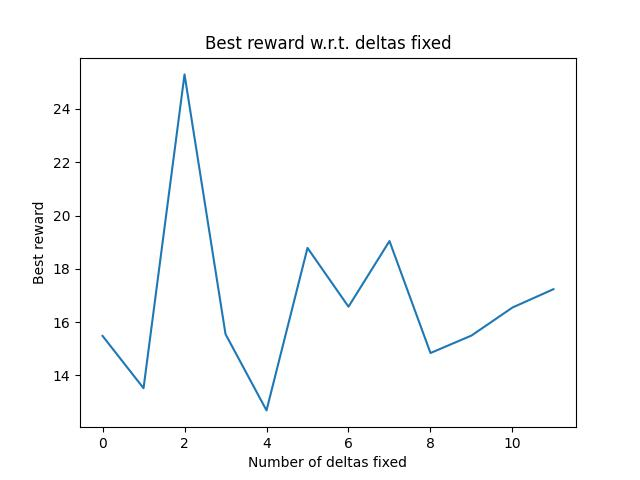
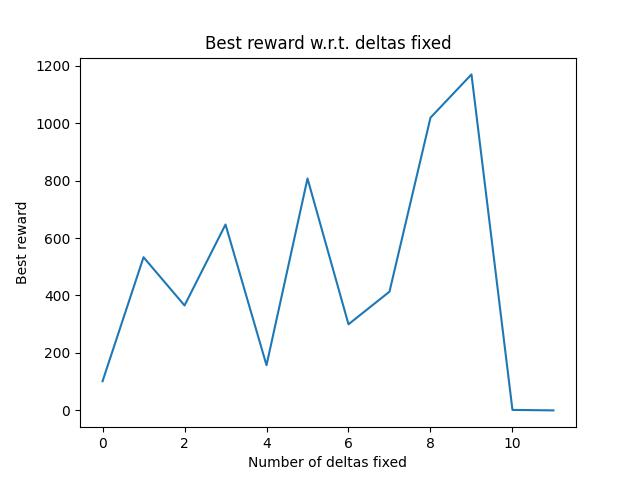
Improved cluster stability and other small changes

diff --git a/pro_run_cluster.py b/pro_run_cluster.py
@@ -28,11 +28,11 @@ guessings = np.array([[1, 1, 1, 1, 1, 1, 1, 1, 1, 1, 1],
 
 guess_sizes = np.array([[10.5, 10.5, 8.5, 8.5, 8.5, 6.5, 6.5, 4.5, 4.5, 2.5, 0.5],
                         [10.5, 10.5, 0, 8.5, 8.5, 6.5, 6.5, 4.5, 4.5, 2.5, 0.5],
-                        [0, 10.5, 0, 8.5, 8.5, 6.5, 6.5, 4.5, 4.5, 2.5, 0.5],
-                        [0, 10.5, 0, 8.5, 8.5, 0, 6.5, 4.5, 4.5, 2.5, 0.5],
-                        [0, 10.5, 0, 0, 8.5, 0, 6.5, 4.5, 4.5, 2.5, 0.5],
-                        [0, 10.5, 0, 0, 8.5, 0, 6.5, 0, 4.5, 2.5, 0.5],
-                        [0, 0, 0, 0, 8.5, 0, 6.5, 0, 4.5, 2.5, 0.5],
+                        [0, 6.5, 0, 8.5, 8.5, 6.5, 6.5, 4.5, 4.5, 2.5, 0.5],
+                        [0, 6.5, 0, 8.5, 8.5, 0, 6.5, 4.5, 4.5, 2.5, 0.5],
+                        [0, 6.5, 0, 0, 4.5, 0, 6.5, 4.5, 4.5, 2.5, 0.5],
+                        [0, 6.5, 0, 0, 4.5, 0, 6.5, 0, 4.5, 2.5, 0.5],
+                        [0, 0, 0, 0, 4.5, 0, 6.5, 0, 4.5, 2.5, 0.5],
                         [0, 0, 0, 0, 0, 0, 6.5, 0, 4.5, 2.5, 0.5],
                         [0, 0, 0, 0, 0, 0, 6.5, 0, 4.5, 0, 0.5],
                         [0, 0, 0, 0, 0, 0, 0, 0, 4.5, 0, 0.5],
@@ -41,13 +41,13 @@ guess_sizes = np.array([[10.5, 10.5, 8.5, 8.5, 8.5, 6.5, 6.5, 4.5, 4.5, 2.5, 0.5
 
 starts = np.array([[0., 0., 2., 2., 2., 4., 4., 6., 6., 8., 10.],
                    [0., 0., 2., 2., 2., 4., 4., 6., 6., 8., 10.],
-                   [4., 0., 2., 2., 2., 4., 4., 6., 6., 8., 10.],
-                   [4., 0., 2., 2., 2., 4., 4., 6., 6., 8., 10.],
-                   [4., 0., 2., 6., 2., 4., 4., 6., 6., 8., 10.],
-                   [4., 0., 2., 6., 2., 4., 4., 6., 6., 8., 10.],
-                   [4., 8., 2., 6., 2., 4., 4., 6., 6., 8., 10.],
-                   [4., 8., 2., 6., 2., 4., 8., 6., 6., 8., 10.],
-                   [4., 8., 2., 6., 2., 4., 8., 6., 6., 8., 10.],
+                   [4., 4., 2., 2., 2., 4., 4., 6., 6., 8., 10.],
+                   [4., 4., 2., 2., 2., 4., 4., 6., 6., 8., 10.],
+                   [4., 4., 2., 6., 6., 4., 4., 6., 6., 8., 10.],
+                   [4., 4., 2., 6., 6., 4., 4., 6., 6., 8., 10.],
+                   [4., 8., 2., 6., 6., 4., 4., 6., 6., 8., 10.],
+                   [4., 8., 2., 6., 6., 4., 8., 6., 6., 8., 10.],
+                   [4., 8., 2., 6., 6., 4., 8., 6., 6., 8., 10.],
                    [4., 8., 2., 6., 10., 4., 8., 6., 6., 8., 10.],
                    [4., 8., 2., 6., 10., 4., 8., 6., 10., 8., 10.],
                    [4., 8., 2., 6., 10., 4., 8., 6., 10., 8., 10.]
@@ -56,12 +56,12 @@ starts = np.array([[0., 0., 2., 2., 2., 4., 4., 6., 6., 8., 10.],
 if __name__ == '__main__':
     parser = argparse.ArgumentParser()
 
-    parser.add_argument('--faff_max', type=int, default=1000, help='Maximum number of steps without improving')
-    parser.add_argument('--pc_max', type=int, default=100, help='Maximum number of reinitializations before reducing window')
-    parser.add_argument('--window_rate', type=float, default=1., help='Rate of search window reduction')
+    parser.add_argument('--faff_max', type=int, default=10000, help='Maximum number of steps without improving')
+    parser.add_argument('--pc_max', type=int, default=10, help='Maximum number of reinitializations before reducing window')
+    parser.add_argument('--window_rate', type=float, default=0.7, help='Rate of search window reduction')
     parser.add_argument('--max_window_exp', type=int, default=25, help='Maximun number of window reductions')
     parser.add_argument('--same_spin_hierarchy', type=bool, default=True, help='Whether same spin deltas should be ordered')
-    parser.add_argument('--dyn_shift', type=float, default=0.7, help='Minimum distance between same spin deltas')
+    parser.add_argument('--dyn_shift', type=float, default=0., help='Minimum distance between same spin deltas')
     parser.add_argument('--alpha', type=float, default=0.0005, help='Learning rate for actor network')
     parser.add_argument('--beta', type=float, default=0.0005, help='Learning rate for critic and value network')
     parser.add_argument('--reward_scale', type=float, default=0.001, help='The reward scale, also related to the entropy parameter')
@@ -71,9 +71,9 @@ if __name__ == '__main__':
     parser.add_argument('--layer2_size', type=int, default=256, help='Dense units for the second layer')
     parser.add_argument('--batch_size', type=int, default=128, help='Batch size')
     parser.add_argument('--num_runs', type=int, default=1, help='Number of runs')
-    parser.add_argument('--max_cpus', type=int, default=400, help='Maximum number of CPUs')
+    parser.add_argument('--max_cpus', type=int, default=650, help='Maximum number of CPUs')
     parser.add_argument('--cpus_per_job', type=int, default=1, help='Maximum number of CPUs per job')
-    parser.add_argument('--runs_per_args', type=int, default=25, help='Number of runs for each combination of parameters')
+    parser.add_argument('--runs_per_args', type=int, default=50, help='Number of runs for each combination of parameters')
     
     args = parser.parse_args()
     
@@ -118,7 +118,8 @@ if __name__ == '__main__':
                       agent_config=agent_config,
                       verbose=verbose,
                       best_teor=best_teor)
-
+    
+    blocks = utils.generate_Ising2D_block_list(10, [])
     remaining_ids = []
     for i in range(12):
         run_config = {}
@@ -166,9 +167,9 @@ if __name__ == '__main__':
             #blocks = utils.generate_block_list(max(params.spin_list), params.z_kill_list)
 
             # ---Instantiate the crossing_eqn class---
-            cft = Ising2D_SAC(params, zd)
+            cft = Ising2D_SAC(blocks, params, zd)
 
-            teor_reward = cft.best_theoretical_reward
+            teor_reward = cft.best_theoretical()
             # array_index is the cluster array number passed to the console. Set it to zero if it doesn't exist.
             array_index = 100*i+j
 
@@ -200,7 +201,7 @@ if __name__ == '__main__':
                         verbose=params.verbose,
                         best_teor=teor_reward))
             
-            #time.sleep(0.5)
+            time.sleep(1)
         
     n_jobs = len(remaining_ids)
     print(f"Total jobs: {n_jobs}")

diff --git a/run_cluster.py b/run_cluster.py
@@ -15,9 +15,9 @@ import time
 if __name__ == '__main__':
     parser = argparse.ArgumentParser()
 
-    parser.add_argument('--faff_max', type=int, default=1000, help='Maximum number of steps without improving')
-    parser.add_argument('--pc_max', type=int, default=100, help='Maximum number of reinitializations before reducing window')
-    parser.add_argument('--window_rate', type=float, default=1., help='Rate of search window reduction')
+    parser.add_argument('--faff_max', type=int, default=10000, help='Maximum number of steps without improving')
+    parser.add_argument('--pc_max', type=int, default=10, help='Maximum number of reinitializations before reducing window')
+    parser.add_argument('--window_rate', type=float, default=0.7, help='Rate of search window reduction')
     parser.add_argument('--max_window_exp', type=int, default=25, help='Maximun number of window reductions')
     parser.add_argument('--same_spin_hierarchy', type=bool, default=True, help='Whether same spin deltas should be ordered')
     parser.add_argument('--dyn_shift', type=float, default=0.7, help='Minimum distance between same spin deltas')
@@ -30,9 +30,9 @@ if __name__ == '__main__':
     parser.add_argument('--layer2_size', type=int, default=256, help='Dense units for the second layer')
     parser.add_argument('--batch_size', type=int, default=128, help='Batch size')
     parser.add_argument('--num_runs', type=int, default=1, help='Number of runs')
-    parser.add_argument('--max_cpus', type=int, default=400, help='Maximum number of CPUs')
+    parser.add_argument('--max_cpus', type=int, default=650, help='Maximum number of CPUs')
     parser.add_argument('--cpus_per_job', type=int, default=1, help='Maximum number of CPUs per job')
-    parser.add_argument('--runs_per_args', type=int, default=250, help='Number of runs for each combination of parameters')
+    parser.add_argument('--runs_per_args', type=int, default=450, help='Number of runs for each combination of parameters')
     
     args = parser.parse_args()
     
@@ -77,7 +77,8 @@ if __name__ == '__main__':
                       agent_config=agent_config,
                       verbose=verbose,
                       best_teor=best_teor)
-
+    
+    blocks = utils.generate_Ising2D_block_list(10, [])
     remaining_ids = []
     for i in range(args.runs_per_args):
         run_config = {}
@@ -104,16 +105,15 @@ if __name__ == '__main__':
         params = ParametersIsing2D_SAC(run_config)
         zd = ZData()
 
-        # ---Kill portion of the z-sample data if required---
         zd.kill_data(params.z_kill_list)
 
         # ---Load the pre-generated conformal blocks for long multiplets---
         #blocks = utils.generate_block_list(max(params.spin_list), params.z_kill_list)
 
         # ---Instantiate the crossing_eqn class---
-        cft = Ising2D_SAC(params, zd)
+        cft = Ising2D_SAC(blocks, params, zd)
 
-        teor_reward = cft.best_theoretical_reward
+        teor_reward = cft.best_theoretical()
         # array_index is the cluster array number passed to the console. Set it to zero if it doesn't exist.
         array_index = i
 
@@ -145,7 +145,7 @@ if __name__ == '__main__':
                         verbose=params.verbose,
                         best_teor=teor_reward))
             
-        #time.sleep(0.5)
+        time.sleep(1)
         
     n_jobs = len(remaining_ids)
     print(f"Total jobs: {n_jobs}")

diff --git a/parameters_ising2D.py b/parameters_ising2D.py
@@ -144,7 +144,7 @@ class ParametersIsing2D_SAC(ParametersIsing2D):
         
         # ---Output Parameters---
         self.filename_stem = 'sac'
-        self.verbose = 'o'  # When the SAC algorithm should print to the console:
+        self.verbose = ''  # When the SAC algorithm should print to the console:
         # e - print at every step
         # o - only after a re-initialisation
         # default is '' which produces no output
@@ -163,7 +163,7 @@ class ParametersIsing2D_SAC(ParametersIsing2D):
 
         # ---Environment Parameters---
         # set guessing run list for conformal weights
-        self.guessing_run_list_deltas = np.array([0, 1, 0, 1, 1, 0, 1, 1, 1, 1, 1])
+        self.guessing_run_list_deltas = np.array([1, 1, 1, 1, 1, 1, 1, 1, 1, 1, 1])
         
         # set guessing run list for ope coefficients        
         self.guessing_run_list_opes = np.array([1, 1, 1, 1, 1, 1, 1, 1, 1, 1, 1])
@@ -175,15 +175,15 @@ class ParametersIsing2D_SAC(ParametersIsing2D):
         # windows for D and B multiplets should be set to zero as they are fixed
         
         # !!! Modified this to set the initial window to respect delta <= delta_max
-        #self.guess_sizes_deltas = np.array([10.5, 10.5, 8.5, 8.5, 8.5, 6.5, 6.5, 4.5, 4.5, 2.5, 0.5])
-        self.guess_sizes_deltas = np.array([0., 6.5, 0., 8.5, 8.5, 0., 6.5, 4.5, 4.5, 2.5, 0.5])
+        self.guess_sizes_deltas = np.array([10.5, 10.5, 8.5, 8.5, 8.5, 6.5, 6.5, 4.5, 4.5, 2.5, 0.5])
+        #self.guess_sizes_deltas = np.array([0., 6.5, 0., 8.5, 8.5, 0., 6.5, 4.5, 4.5, 2.5, 0.5])
         # initial search window size for OPE coeffs        
         self.guess_sizes_opes = np.ones(self.num_of_operators)
         
         # set minimum values for conformal weights
         # minimums for D and B multiplets are fixed as weights are known
-        #self.shifts_deltas = np.array([0., 0., 2., 2., 2., 4., 4., 6., 6., 8., 10.])
-        self.shifts_deltas = np.array([4., 4., 2., 2., 2., 4., 4., 6., 6., 8., 10.])
+        self.shifts_deltas = np.array([0., 0., 2., 2., 2., 4., 4., 6., 6., 8., 10.])
+        #self.shifts_deltas = np.array([4., 4., 2., 2., 2., 4., 4., 6., 6., 8., 10.])
     
         # set minimum values for OPE coeffs
         self.shifts_opecoeffs = np.zeros(self.num_of_operators)

diff --git a/pro_analyze_results.py b/pro_analyze_results.py
@@ -20,8 +20,11 @@ obt_rewards = []
 obt_deltas = []
 obt_lambdads = []
 
+reward_means = []
+
 for i in range(delta_tries):
     best_reward = 0.
+    coll = []
     for j in range(tries_per_deltas):
         currf = open(join(path, 'sac'+str(100*i+j)+'.csv'))
         csv_raw = csv.reader(currf)
@@ -29,6 +32,7 @@ for i in range(delta_tries):
         data = sp[-1]
         if len(data)>10:
             curr_rew = float(data[1])
+            coll.append(curr_rew)
             curr_delta = [float(data[i]) for i in range(2, 2+delta_len)]
             curr_lambda = [float(data[i]) for i in range(2+delta_len, 2+delta_len+lambda_len)]
             if curr_rew > best_reward:
@@ -37,6 +41,7 @@ for i in range(delta_tries):
                 deltas = curr_delta
                 lambdas = curr_lambda
         currf.close()
+    reward_means.append(np.mean(coll))
     obt_runs.append(best_run)
     obt_rewards.append(best_reward)
     obt_deltas.append(deltas)
@@ -48,9 +53,19 @@ for i in range(delta_tries):
     print(f'Best reward: {obt_rewards[i]}')
     print(f'Best deltas: {obt_deltas[i]}')
     print(f'Best lambdas: {obt_lambdads[i]}')
+    print(f'Reward means: {reward_means[i]}')
+    
+
 
 plt.plot(range(delta_tries), obt_rewards)
 plt.title('Best reward w.r.t. deltas fixed')
 plt.xlabel('Number of deltas fixed')
 plt.ylabel('Best reward')
 plt.savefig('rew_for_deltas.jpg')
+plt.close()
+
+plt.plot(range(delta_tries), reward_means)
+plt.title('Best reward w.r.t. deltas fixed')
+plt.xlabel('Number of deltas fixed')
+plt.ylabel('Mean of best rewards')
+plt.savefig('rew_for_deltas_mean.jpg')
